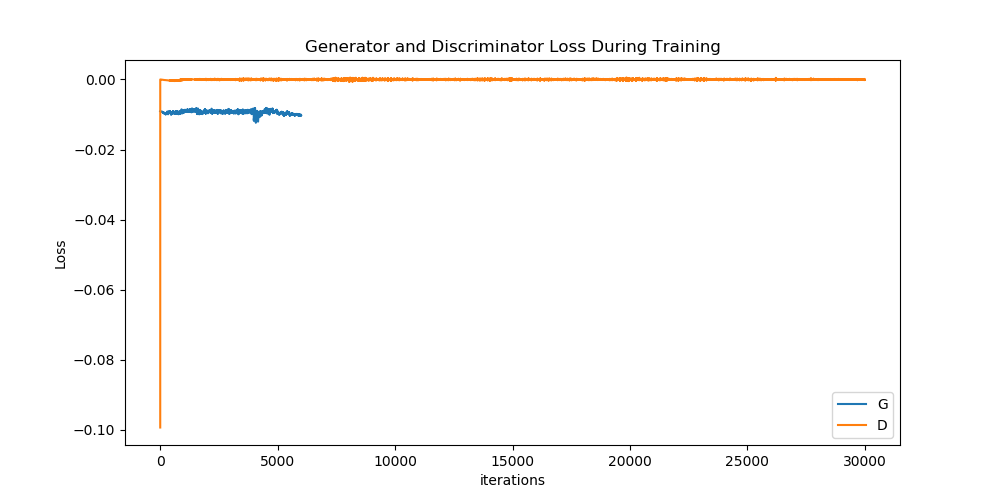
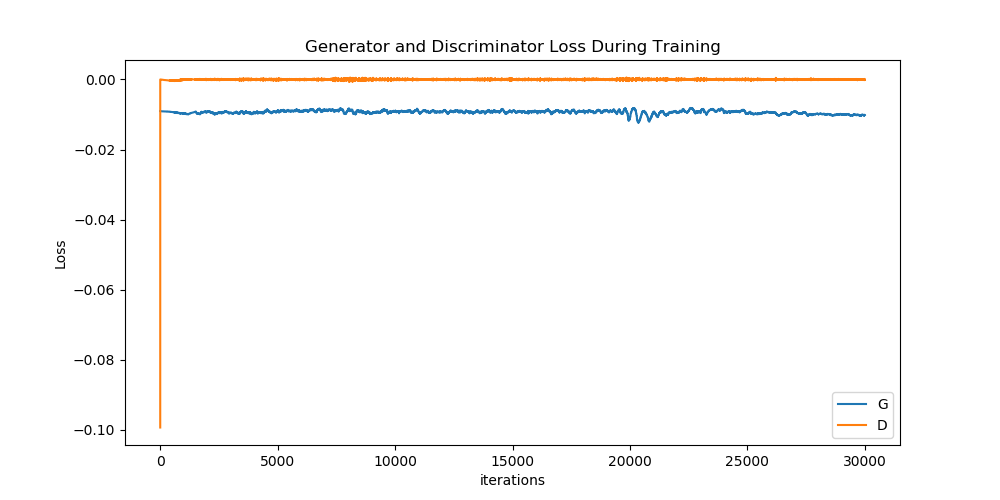
fix train_summary image

Changed region(s): [[0.155, 0.21, 0.868, 0.24]]

diff --git a/Project/EvolutionaryGAN/gan.py b/Project/EvolutionaryGAN/gan.py
@@ -525,7 +525,8 @@ class WGAN(GAN):
                     fake_sample = self.generator(sample_noise(self.opt.batch_size))
     
                     g_loss, fake_out2 = self.train_generator(fake_sample)
-                    self.g_losses.append(g_loss)
+                    # add loss n_critic times
+                    self.g_losses.extend([g_loss]*n_critic)
 
                 # Each few iterations we plot statistics with current discriminator loss, generator loss,
                 # mean of discriminator prediction for real sample,
